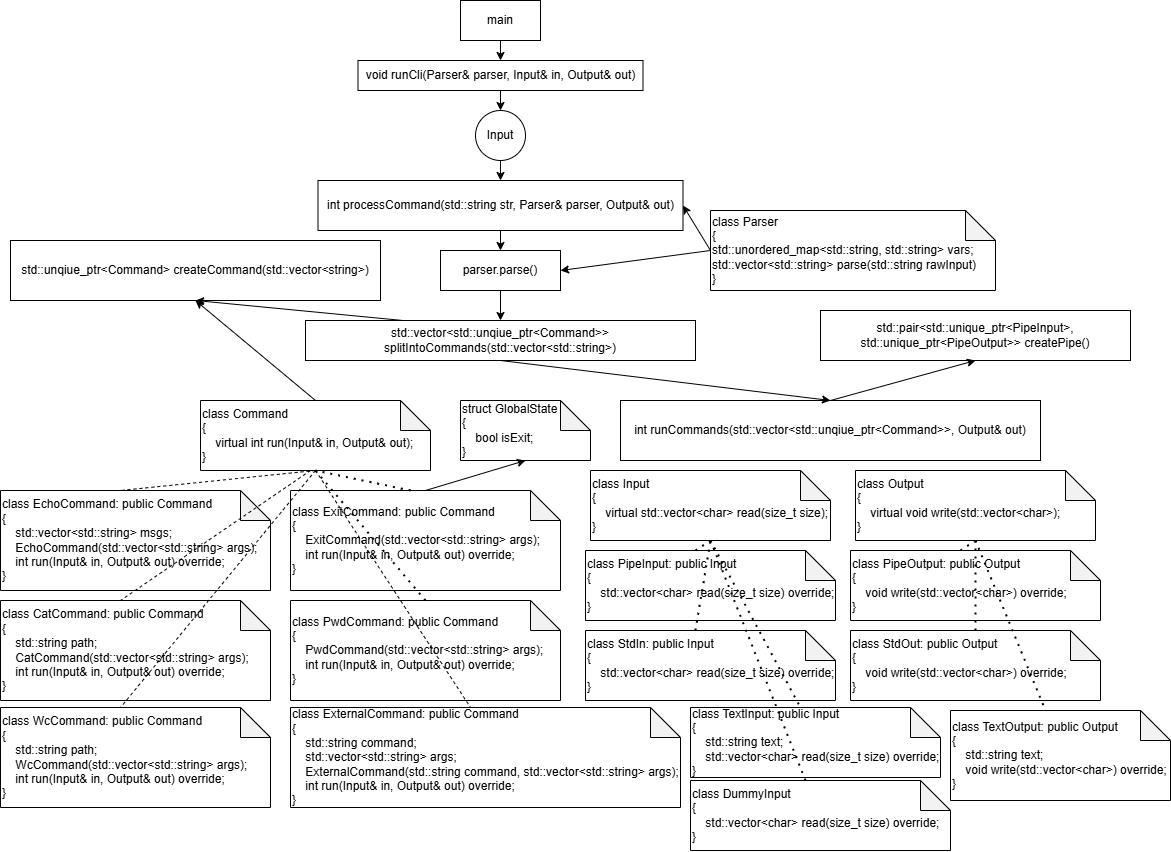
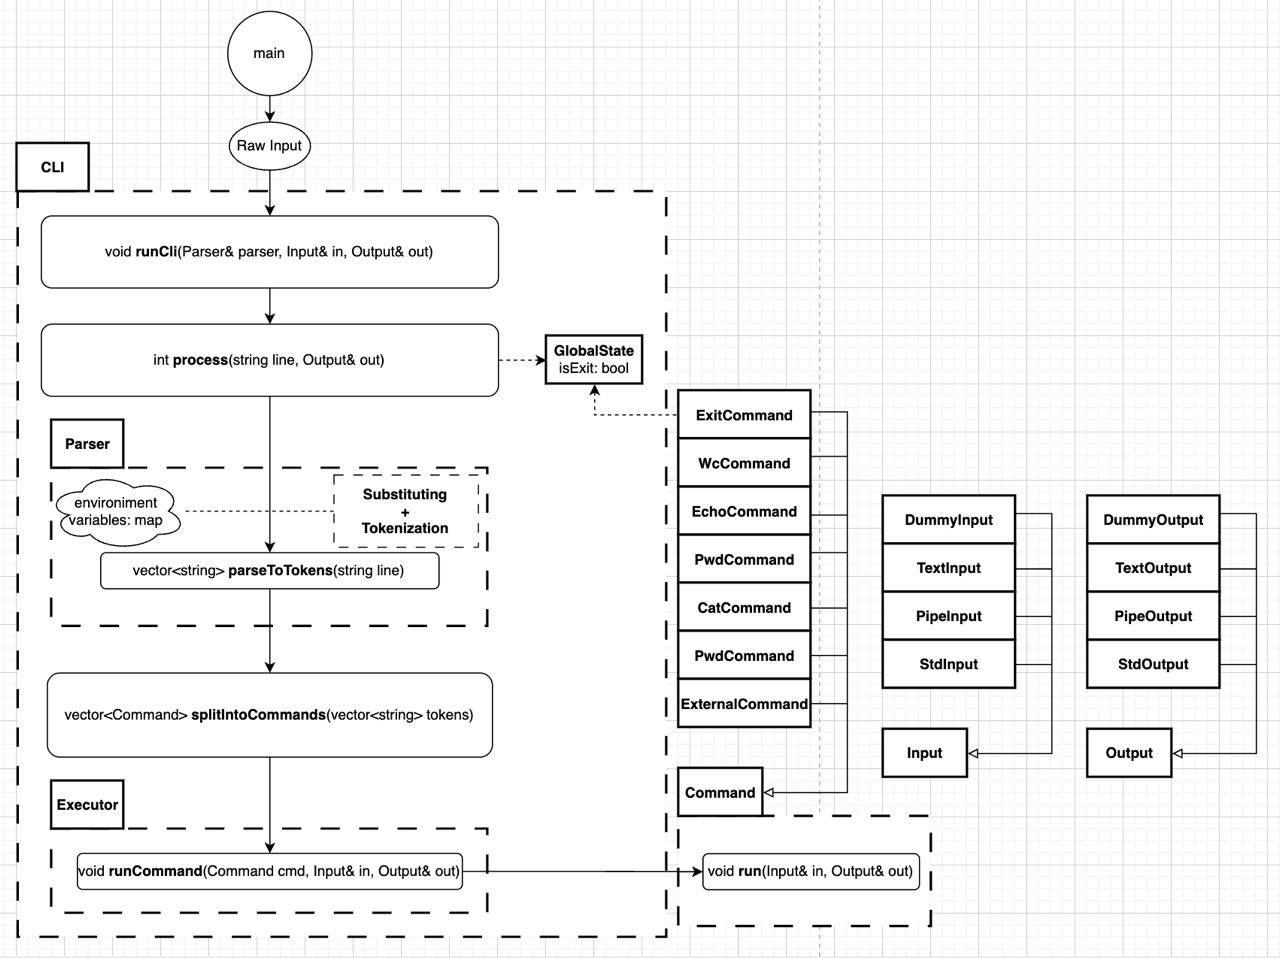
feat docs: update architecture diagrams and description

diff --git a/docs/architecture.md b/docs/architecture.md
@@ -1,10 +1,42 @@
-![cli](cli.png "CLI")
+### Архитектура
+1. [Архитектурная диаграмма](cli.jpg "CLI")
+![Архитектурная диаграмма](cli.jpg "CLI")
 
+2. [Диаграмма классов](class-diagram.jpg "Classes")
+![Диаграмма классов](class-diagram.jpg "Classes")
+
+
+### Общее описание работы
 1. В функции `main` создаются `Input` и `Output` для `stdin` и `stdout`, а так же парсер (так сделано для упрощения тестирования), которые затем передаются в функцию `runCli`.
 2. Функция `runCli` является главной функцией обработки. В цикле, пока не проставлен флаг о завершении работы, читает по строке из `Input` и передает ее вместе с парсером и `Output` в функцию `prcoessCommand`.
 3. Функция `processCommand` сначала вызывает `Parcer::parse()`, чтобы парсер вычитал новые переменные, совершил подстановку переменных, а затем разбил строку на токены по пробелам с учетом строковых аргументов. Подстановка и парсинг объединены, т.к. для подстановки нам нужно найти аргументы (нужно учитывать, что в тексте может быть написано, например `echo '$var'`, и здесь не надо подставлять значение), а для разбиения на элементы нам нужна полная подстановка (пример с `$x$y = exit` в задании). Переменные окружения представляются в строковом виде и хранятся как пары ключ-значения внутри парсера.
 4. После этого вызывается функция `splitIntoCommands`, которая разделяет токены по `"|"`. Для каждый группы токенов вызываем createCommand, которая по нулевому токену определяет название комманды. Если команда известная, то создаем объект нужного класса, куда в качестве параметров передаются остальные токены группы. Там же происходит их валидация в зависимости от специфики конкретной команды. Если же команда неизвестна, то создается объект `ExternalCommand`, которому в качестве команды передается нулевой токен, а в качестве аргументов все остальные токены группы. `ExitCommand` будет только проставлять глобальный флаг `isExit`, чтобы завершить обработку данных. Для добавления новой команды нужно создать соответствующий новый класс, а так же добавить поддержку в `createCommand`.
 5. После того как мы получили все команды, вызывается функция `runCommands`. В ней для каждой последовательной пары команд создается `pipe(createPipe())`. Для первой команды передаем в качестве входа `DummyInput`, который будет кидать исключение при чтении. Это необходимо, т.к. каждая команда должна получать при запуске вход и выход, даже первая, у которой нет входа (может быть заменено в случае поддержки функциональности `cli < a.txt`). Для последней команды на выход подается изначальный `Output` созданный в `main`.
 6. Многопоточная обработка в CLI может реализовываться следующим образом:
-1) Заводим по потоку на каждую команду и запускаем пайплайн, подав входной поток на Input первой команде.
-2) В ходе выполнения команды будут записывать часть данных в Output. Так как Output может быть пайпом, то следующая команда уже сможет прочитать эти данные и начать исполняться параллельно текущей.
+    1) Заводим по потоку на каждую команду и запускаем пайплайн, подав входной поток на Input первой команде.
+    2) В ходе выполнения команды будут записывать часть данных в Output. Так как Output может быть пайпом, то следующая команда уже сможет прочитать эти данные и начать исполняться параллельно текущей.
+
+### Описание сущностей
+#### Общие классы
+- `CLI` - обобщающая сущность, реализующая необходимую функциональность cli. Содержит в себе классы `Parser` и `Executor` и утилитарные функции.
+- `Parser` - занимается установкой переменных (т.к. они непосредственно влияют только на результат парсинга), подстановкой перменных в строке(т.к. для подстановки надо понимать находимся ли мы внутри строки или нет), разбиением строки на токены.
+- `Executor` - умеет исполнять задачи. Позволит в будущем поменять стратегию исполнения команд, если появится такой запрос.
+- `GlobalState` - хранит глобальное состояние программы (пока что только флаг о завершении работы).
+#### Интерфейсы
+- `Command` - предоставляет интерфейс для запуска комманд.
+- `Input` - предоставляет интерфейс чтения данных.
+- `Output` - предоставляет интерфейс записи данных.
+#### Конкретные реализации
+- `EchoCommand` - реализует `Command`, выполняет при запуске операцию echo.
+- `CatCommand` - реализует `Command`, выполняет при запуске операцию cat.
+- `WcCommand` - реализует `Command`, выполняет при запуске операцию wc.
+- `ExitCommand` - реализует `Command`, команда, при запуске проставляющая флаг isExit в глобальном состоянии.
+- `PwdCommand` - реализует `Command`, выполняет при запуске операцию pwd.
+- `ExternalCommand` - реализует `Command`, запускает внешнюю команду. Нужна в случае, если вызванная команда не поддержана cli.
+- `StdIn` - реализует `Input`, позволяет читать из stdin.
+- `PipeInput` - реализует `Input`, позволяет читать из pipe.
+- `TextInput` - реализует `Input`, нужен для тестов, позволяет задать вход для конкретной команды или для всего процессинга.
+- `DummyInput` - реализует `Input`, нужен для запуска процесса выполнения команд, т.к. у первой команды нет входа (может быть заменен на чтение из файла, если будет требование на <, пример: wc < a.txt).
+- `StdOut` - реализует `Output`, позволяет писать в stdout.
+- `PipeOutput` - реализует `Output`, позволяет писать в pipe.
+- `TextOutput` - реализует `Output`, нужен для тестов, чтобы проверить совпадение результатов выполнения кода с эталоном.
